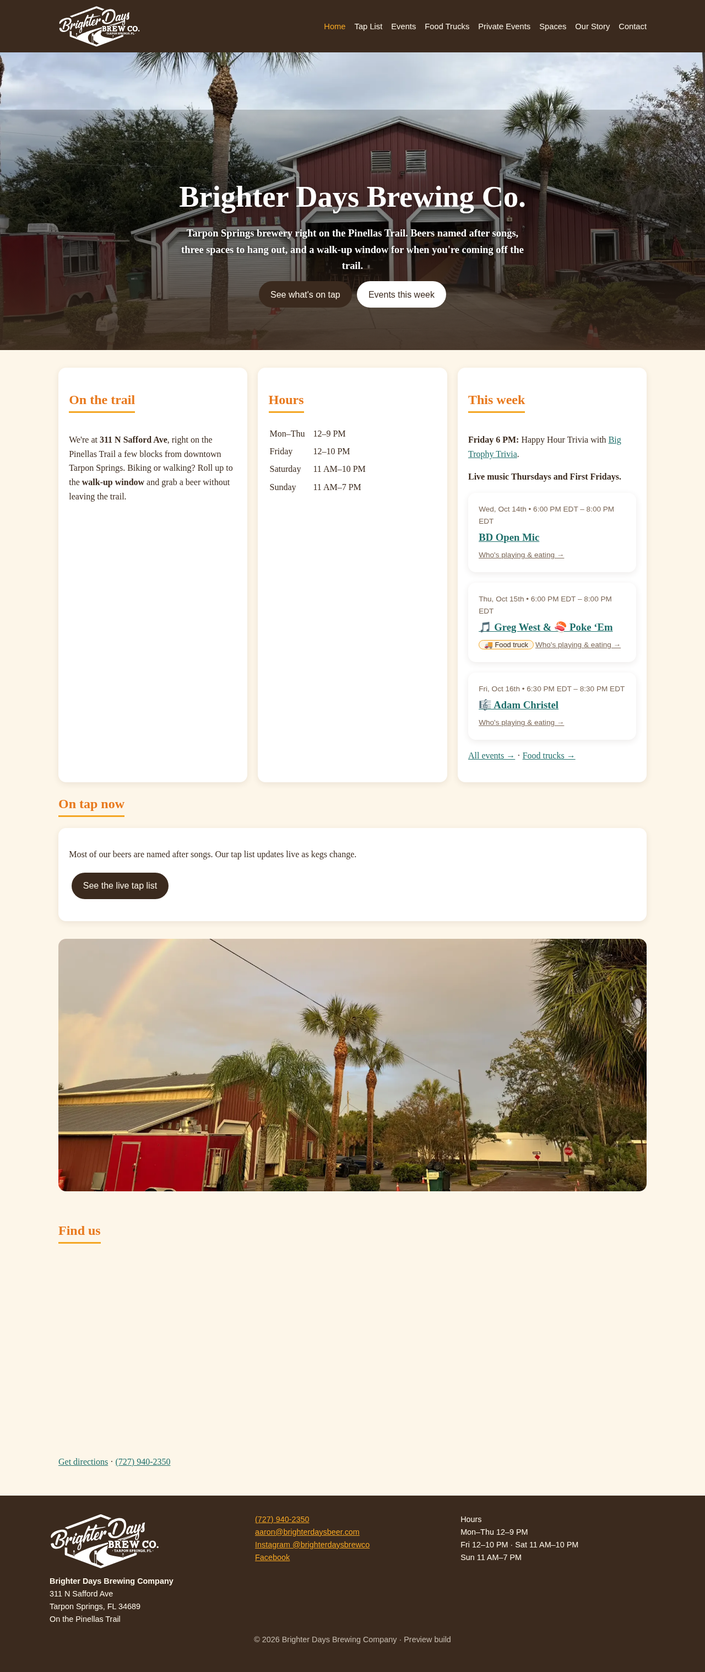
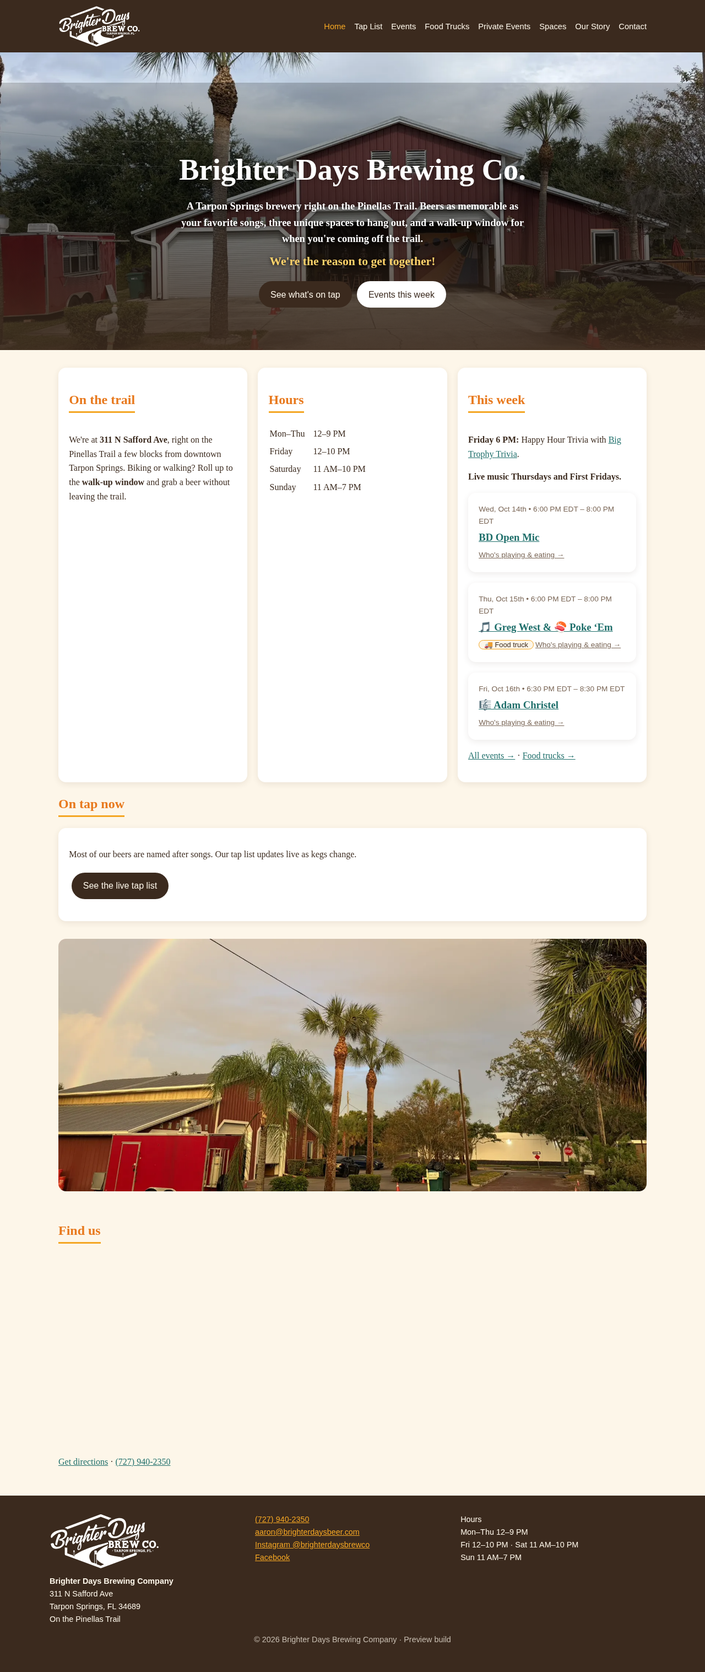
New home hero intro text and tagline

Changed region(s): [[0.0, 0.031, 1.0, 0.155]]

diff --git a/spaces.html b/spaces.html
@@ -1,11 +1,11 @@
 <!doctype html><html lang="en"><head><meta charset="utf-8"><meta name="viewport" content="width=device-width,initial-scale=1">
 <title>Spaces | Brighter Days Brewing Company, Tarpon Springs FL</title><meta name="description" content="Brighter Days Brewing Company: a Tarpon Springs brewery right on the Pinellas Trail, with a walk-up window and beers named after songs.">
 <link rel="icon" href="favicon.ico" sizes="any"><link rel="icon" type="image/png" sizes="32x32" href="assets/img/logo/favicon-32.png"><link rel="icon" type="image/png" sizes="16x16" href="assets/img/logo/favicon-16.png"><link rel="icon" type="image/png" sizes="192x192" href="assets/img/logo/favicon-192.png"><link rel="apple-touch-icon" href="assets/img/logo/apple-touch-icon.png">
-<link rel="stylesheet" href="assets/style.css?v=20261013c"></head><body>
+<link rel="stylesheet" href="assets/style.css?v=20261014a"></head><body>
 <header><div class="nav"><a class="logo" href="index.html" aria-label="Brighter Days Brew Co. home"><img class="logo-full" src="assets/img/logo/bd-logo-main-white.svg" alt="Brighter Days Brew Co., Tarpon Springs, FL" width="690" height="353"><img class="logo-mark" src="assets/img/logo/bd-starburst-white.png" alt="Brighter Days Brew Co." width="200" height="200"></a><button id="menuBtn" aria-label="Menu">☰</button><nav><ul><li><a href="index.html">Home</a></li><li><a href="taps.html">Tap List</a></li><li><a href="events.html">Events</a></li><li><a href="food-trucks.html">Food Trucks</a></li><li><a href="private-events.html">Private Events</a></li><li><a href="spaces.html" class=on>Spaces</a></li><li><a href="story.html">Our Story</a></li><li><a href="contact.html">Contact</a></li></ul></nav></div></header>
 <main><h2>Our spaces</h2><p>Three different spots to hang out, plus a walk-up window on the trail.</p><section class="gal-sec"><h3>Deck and outdoor</h3><p>Adirondack chairs and umbrellas out front.</p><div class="gal"><a class="gal-item" href="assets/img/spaces/bd-2570.jpg" data-full-webp="assets/img/spaces/bd-2570.webp" data-w="1600" data-h="1200"><picture><source srcset="assets/img/spaces/bd-2570-thumb.webp" type="image/webp"><img src="assets/img/spaces/bd-2570-thumb.jpg" alt="Deck with white event tents and a crowd on a sunny day" loading="lazy" decoding="async" width="600" height="450"></picture></a><a class="gal-item" href="assets/img/spaces/bd-2577.jpg" data-full-webp="assets/img/spaces/bd-2577.webp" data-w="1600" data-h="1200"><picture><source srcset="assets/img/spaces/bd-2577-thumb.webp" type="image/webp"><img src="assets/img/spaces/bd-2577-thumb.jpg" alt="Tent on the patio lit with string lights at dusk" loading="lazy" decoding="async" width="600" height="450"></picture></a><a class="gal-item" href="assets/img/spaces/bd-2579.jpg" data-full-webp="assets/img/spaces/bd-2579.webp" data-w="1600" data-h="1200"><picture><source srcset="assets/img/spaces/bd-2579-thumb.webp" type="image/webp"><img src="assets/img/spaces/bd-2579-thumb.jpg" alt="Evening on the deck under string lights and tents" loading="lazy" decoding="async" width="600" height="450"></picture></a><a class="gal-item" href="assets/img/spaces/bd-0875.jpg" data-full-webp="assets/img/spaces/bd-0875.webp" data-w="1600" data-h="1200"><picture><source srcset="assets/img/spaces/bd-0875-thumb.webp" type="image/webp"><img src="assets/img/spaces/bd-0875-thumb.jpg" alt="Outdoor area with red umbrellas and a food truck parked out back" loading="lazy" decoding="async" width="600" height="450"></picture></a></div></section><section class="gal-sec"><h3>Garage-door room</h3><p>Open-air room with picnic tables and TVs for the game.</p><div class="gal"><a class="gal-item" href="assets/img/spaces/bd-1412.jpg" data-full-webp="assets/img/spaces/bd-1412.webp" data-w="1600" data-h="1200"><picture><source srcset="assets/img/spaces/bd-1412-thumb.webp" type="image/webp"><img src="assets/img/spaces/bd-1412-thumb.jpg" alt="Garage-door room with tables, a barrel and hanging banners" loading="lazy" decoding="async" width="600" height="450"></picture></a><a class="gal-item" href="assets/img/spaces/bd-2583.jpg" data-full-webp="assets/img/spaces/bd-2583.webp" data-w="1600" data-h="1200"><picture><source srcset="assets/img/spaces/bd-2583-thumb.webp" type="image/webp"><img src="assets/img/spaces/bd-2583-thumb.jpg" alt="Garage room with barrels and tables set up" loading="lazy" decoding="async" width="600" height="450"></picture></a></div></section><section class="gal-sec"><h3>Indoor bar</h3><p>Order at the bar and see what's pouring.</p><div class="gal"><a class="gal-item" href="assets/img/spaces/bd-0842.jpg" data-full-webp="assets/img/spaces/bd-0842.webp" data-w="1600" data-h="1200"><picture><source srcset="assets/img/spaces/bd-0842-thumb.webp" type="image/webp"><img src="assets/img/spaces/bd-0842-thumb.jpg" alt="Indoor bar with wood counter and TV" loading="lazy" decoding="async" width="600" height="450"></picture></a><a class="gal-item" href="assets/img/spaces/bd-0876.jpg" data-full-webp="assets/img/spaces/bd-0876.webp" data-w="1200" data-h="1600"><picture><source srcset="assets/img/spaces/bd-0876-thumb.webp" type="image/webp"><img src="assets/img/spaces/bd-0876-thumb.jpg" alt="Inside the taproom bar room" loading="lazy" decoding="async" width="600" height="450"></picture></a></div></section><section class="gal-sec"><h3>Walk-up window</h3><p>Coming off the Pinellas Trail? Grab a beer at the window.</p></section><section class="gal-sec"><h3>Brewhouse</h3><div class="gal"><a class="gal-item" href="assets/img/spaces/bd-1732.jpg" data-full-webp="assets/img/spaces/bd-1732.webp" data-w="1600" data-h="1200"><picture><source srcset="assets/img/spaces/bd-1732-thumb.webp" type="image/webp"><img src="assets/img/spaces/bd-1732-thumb.jpg" alt="Brewhouse with stainless fermentation tanks" loading="lazy" decoding="async" width="600" height="450"></picture></a></div></section><section class="gal-sec"><h3>Night and events</h3><div class="gal"><a class="gal-item" href="assets/img/spaces/bd-1480.jpg" data-full-webp="assets/img/spaces/bd-1480.webp" data-w="1600" data-h="1200"><picture><source srcset="assets/img/spaces/bd-1480-thumb.webp" type="image/webp"><img src="assets/img/spaces/bd-1480-thumb.jpg" alt="Night crowd outside the garage doors with a red food trailer" loading="lazy" decoding="async" width="600" height="450"></picture></a><a class="gal-item" href="assets/img/spaces/bd-1481.jpg" data-full-webp="assets/img/spaces/bd-1481.webp" data-w="1200" data-h="1600"><picture><source srcset="assets/img/spaces/bd-1481-thumb.webp" type="image/webp"><img src="assets/img/spaces/bd-1481-thumb.jpg" alt="Fire pit glowing on a busy night" loading="lazy" decoding="async" width="600" height="450"></picture></a><a class="gal-item" href="assets/img/spaces/bd-2310.jpg" data-full-webp="assets/img/spaces/bd-2310.webp" data-w="1600" data-h="1200"><picture><source srcset="assets/img/spaces/bd-2310-thumb.webp" type="image/webp"><img src="assets/img/spaces/bd-2310-thumb.jpg" alt="Garage doors lit purple at night" loading="lazy" decoding="async" width="600" height="450"></picture></a><a class="gal-item" href="assets/img/spaces/bd-2564.jpg" data-full-webp="assets/img/spaces/bd-2564.webp" data-w="1600" data-h="1200"><picture><source srcset="assets/img/spaces/bd-2564-thumb.webp" type="image/webp"><img src="assets/img/spaces/bd-2564-thumb.jpg" alt="Packed taproom during an event" loading="lazy" decoding="async" width="600" height="450"></picture></a><a class="gal-item" href="assets/img/spaces/bd-2574.jpg" data-full-webp="assets/img/spaces/bd-2574.webp" data-w="1600" data-h="1200"><picture><source srcset="assets/img/spaces/bd-2574-thumb.webp" type="image/webp"><img src="assets/img/spaces/bd-2574-thumb.jpg" alt="Garage room set up for a private event" loading="lazy" decoding="async" width="600" height="450"></picture></a></div></section><section class="gal-sec"><h3>Food trucks</h3><div class="gal"><a class="gal-item" href="assets/img/spaces/bd-2343.jpg" data-full-webp="assets/img/spaces/bd-2343.webp" data-w="1600" data-h="1200"><picture><source srcset="assets/img/spaces/bd-2343-thumb.webp" type="image/webp"><img src="assets/img/spaces/bd-2343-thumb.jpg" alt="Bella Vita pizza trailer parked by the Brighter Days banner" loading="lazy" decoding="async" width="600" height="450"></picture></a><a class="gal-item" href="assets/img/spaces/bd-0797.jpg" data-full-webp="assets/img/spaces/bd-0797.webp" data-w="1600" data-h="1200"><picture><source srcset="assets/img/spaces/bd-0797-thumb.webp" type="image/webp"><img src="assets/img/spaces/bd-0797-thumb.jpg" alt="Red food trailer at the brewery" loading="lazy" decoding="async" width="600" height="450"></picture></a></div></section><section class="gal-sec"><h3>Fun stuff</h3><div class="gal"><a class="gal-item" href="assets/img/spaces/bd-1266.jpg" data-full-webp="assets/img/spaces/bd-1266.webp" data-w="1201" data-h="1600"><picture><source srcset="assets/img/spaces/bd-1266-thumb.webp" type="image/webp"><img src="assets/img/spaces/bd-1266-thumb.jpg" alt="Carved pumpkin with the BD logo glowing at night" loading="lazy" decoding="async" width="600" height="450"></picture></a><a class="gal-item" href="assets/img/spaces/bd-1037.jpg" data-full-webp="assets/img/spaces/bd-1037.webp" data-w="1600" data-h="1200"><picture><source srcset="assets/img/spaces/bd-1037-thumb.webp" type="image/webp"><img src="assets/img/spaces/bd-1037-thumb.jpg" alt="Framed beer art posters above a row of kegs" loading="lazy" decoding="async" width="600" height="450"></picture></a></div></section><section class="gal-sec"><h3>Beer and cans</h3><div class="gal"><a class="gal-item" href="assets/img/spaces/fb-011.jpg" data-full-webp="assets/img/spaces/fb-011.webp" data-w="543" data-h="543"><picture><source srcset="assets/img/spaces/fb-011-thumb.webp" type="image/webp"><img src="assets/img/spaces/fb-011-thumb.jpg" alt="Row of Brighter Days cans on a table" loading="lazy" decoding="async" width="600" height="450"></picture></a><a class="gal-item" href="assets/img/spaces/fb-083.jpg" data-full-webp="assets/img/spaces/fb-083.webp" data-w="497" data-h="497"><picture><source srcset="assets/img/spaces/fb-083-thumb.webp" type="image/webp"><img src="assets/img/spaces/fb-083-thumb.jpg" alt="Lineup of Brighter Days cans" loading="lazy" decoding="async" width="600" height="450"></picture></a><a class="gal-item" href="assets/img/spaces/fb-128.jpg" data-full-webp="assets/img/spaces/fb-128.webp" data-w="1079" data-h="1079"><picture><source srcset="assets/img/spaces/fb-128-thumb.webp" type="image/webp"><img src="assets/img/spaces/fb-128-thumb.jpg" alt="A pint of hazy beer on the bar" loading="lazy" decoding="async" width="600" height="450"></picture></a><a class="gal-item" href="assets/img/spaces/fb-074.jpg" data-full-webp="assets/img/spaces/fb-074.webp" data-w="1600" data-h="1600"><picture><source srcset="assets/img/spaces/fb-074-thumb.webp" type="image/webp"><img src="assets/img/spaces/fb-074-thumb.jpg" alt="A fresh pint with the crowd behind it" loading="lazy" decoding="async" width="600" height="450"></picture></a></div></section><p><a class="btn" href="private-events.html">Book a space</a></p></main><div id="lb" class="lb" hidden role="dialog" aria-modal="true" aria-label="Photo viewer"><button class="lb-x" aria-label="Close">×</button><button class="lb-p" aria-label="Previous photo">‹</button><figure><picture><source id="lb-src" type="image/webp"><img id="lb-img" alt=""></picture><figcaption id="lb-cap"></figcaption></figure><button class="lb-n" aria-label="Next photo">›</button></div>
 <footer><div class="grid"><div><img src="assets/img/logo/bd-logo-main-white.svg" alt="Brighter Days Brew Co., Tarpon Springs, FL" style="width:200px;height:auto;display:block;margin-bottom:.6rem"><strong>Brighter Days Brewing Company</strong><br>311 N Safford Ave<br>Tarpon Springs, FL 34689<br>On the Pinellas Trail</div><div><a href="tel:+17279402350">(727) 940-2350</a><br><a href="mailto:aaron@brighterdaysbeer.com">aaron@brighterdaysbeer.com</a><br><a href="https://instagram.com/brighterdaysbrewco">Instagram @brighterdaysbrewco</a><br><a href="https://www.facebook.com/282372538847975">Facebook</a></div><div>Hours<br>Mon–Thu 12–9 PM<br>Fri 12–10 PM · Sat 11 AM–10 PM<br>Sun 11 AM–7 PM</div></div><p style="text-align:center;opacity:.7">© 2026 Brighter Days Brewing Company · Preview build</p></footer>
-<script src="assets/site.js?v=20261013c"></script><script>
+<script src="assets/site.js?v=20261014a"></script><script>
 (()=>{const items=[...document.querySelectorAll('.gal-item')],lb=document.getElementById('lb'),img=document.getElementById('lb-img'),src=document.getElementById('lb-src'),cap=document.getElementById('lb-cap');let i=0,last;
 function show(n){i=(n+items.length)%items.length;const a=items[i],t=a.querySelector('img');src.srcset=a.dataset.fullWebp;img.src=a.href;img.alt=t.alt;cap.textContent=t.alt}
 items.forEach((a,n)=>a.addEventListener('click',e=>{e.preventDefault();last=a;show(n);lb.hidden=false;document.body.style.overflow='hidden';lb.querySelector('.lb-x').focus()}));

diff --git a/index.html b/index.html
@@ -1,9 +1,9 @@
 <!doctype html><html lang="en"><head><meta charset="utf-8"><meta name="viewport" content="width=device-width,initial-scale=1">
 <title>Home | Brighter Days Brewing Company, Tarpon Springs FL</title><meta name="description" content="Brighter Days Brewing Company: a Tarpon Springs brewery right on the Pinellas Trail, with a walk-up window and beers named after songs.">
 <link rel="icon" href="favicon.ico" sizes="any"><link rel="icon" type="image/png" sizes="32x32" href="assets/img/logo/favicon-32.png"><link rel="icon" type="image/png" sizes="16x16" href="assets/img/logo/favicon-16.png"><link rel="icon" type="image/png" sizes="192x192" href="assets/img/logo/favicon-192.png"><link rel="apple-touch-icon" href="assets/img/logo/apple-touch-icon.png">
-<link rel="stylesheet" href="assets/style.css?v=20261013c"></head><body>
+<link rel="stylesheet" href="assets/style.css?v=20261014a"></head><body>
 <header><div class="nav"><a class="logo" href="index.html" aria-label="Brighter Days Brew Co. home"><img class="logo-full" src="assets/img/logo/bd-logo-main-white.svg" alt="Brighter Days Brew Co., Tarpon Springs, FL" width="690" height="353"><img class="logo-mark" src="assets/img/logo/bd-starburst-white.png" alt="Brighter Days Brew Co." width="200" height="200"></a><button id="menuBtn" aria-label="Menu">☰</button><nav><ul><li><a href="index.html" class=on>Home</a></li><li><a href="taps.html">Tap List</a></li><li><a href="events.html">Events</a></li><li><a href="food-trucks.html">Food Trucks</a></li><li><a href="private-events.html">Private Events</a></li><li><a href="spaces.html">Spaces</a></li><li><a href="story.html">Our Story</a></li><li><a href="contact.html">Contact</a></li></ul></nav></div></header>
-<section class="hero photo"><picture><source srcset="assets/img/home-hero.webp" type="image/webp"><img class="hero-img" src="assets/img/home-hero.jpg" alt="The red Brighter Days taproom building with its garage doors open, framed by palm trees" width="1920" height="1080" fetchpriority="high"></picture><div class="hero-inner"><h1>Brighter Days Brewing Co.</h1><p>Tarpon Springs brewery right on the Pinellas Trail. Beers named after songs, three spaces to hang out, and a walk-up window for when you're coming off the trail.</p>
+<section class="hero photo"><picture><source srcset="assets/img/home-hero.webp" type="image/webp"><img class="hero-img" src="assets/img/home-hero.jpg" alt="The red Brighter Days taproom building with its garage doors open, framed by palm trees" width="1920" height="1080" fetchpriority="high"></picture><div class="hero-inner"><h1>Brighter Days Brewing Co.</h1><p>A Tarpon Springs brewery right on the Pinellas Trail. Beers as memorable as your favorite songs, three unique spaces to hang out, and a walk-up window for when you're coming off the trail.</p><p class="tagline"><strong>We're the reason to get together!</strong></p>
 <a class="btn" href="taps.html">See what's on tap</a><a class="btn alt" href="events.html">Events this week</a></div></section>
 <main><div class="grid">
 <div class="card"><h2>On the trail</h2><p>We're at <strong>311 N Safford Ave</strong>, right on the Pinellas Trail a few blocks from downtown Tarpon Springs. Biking or walking? Roll up to the <strong>walk-up window</strong> and grab a beer without leaving the trail.</p></div>
@@ -13,4 +13,4 @@
 <h2>On tap now</h2><div class="card"><p>Most of our beers are named after songs. Our tap list updates live as kegs change.</p><p><a class="btn" href="taps.html">See the live tap list</a></p></div>
 <figure class="band"><picture><source srcset="assets/img/home-rainbow.webp" type="image/webp"><img src="assets/img/home-rainbow.jpg" alt="A rainbow arching over the brewery and palm trees" loading="lazy" width="1600" height="685"></picture></figure><h2>Find us</h2><iframe class="map" loading="lazy" title="Map to 311 N Safford Ave, Tarpon Springs" src="https://maps.google.com/maps?q=311%20N%20Safford%20Ave%2C%20Tarpon%20Springs%2C%20FL%2034689&z=16&output=embed"></iframe><p><a href="https://www.google.com/maps/dir/?api=1&destination=311+N+Safford+Ave+Tarpon+Springs+FL+34689">Get directions</a> · <a href="tel:+17279402350">(727) 940-2350</a></p></main>
 <footer><div class="grid"><div><img src="assets/img/logo/bd-logo-main-white.svg" alt="Brighter Days Brew Co., Tarpon Springs, FL" style="width:200px;height:auto;display:block;margin-bottom:.6rem"><strong>Brighter Days Brewing Company</strong><br>311 N Safford Ave<br>Tarpon Springs, FL 34689<br>On the Pinellas Trail</div><div><a href="tel:+17279402350">(727) 940-2350</a><br><a href="mailto:aaron@brighterdaysbeer.com">aaron@brighterdaysbeer.com</a><br><a href="https://instagram.com/brighterdaysbrewco">Instagram @brighterdaysbrewco</a><br><a href="https://www.facebook.com/282372538847975">Facebook</a></div><div>Hours<br>Mon–Thu 12–9 PM<br>Fri 12–10 PM · Sat 11 AM–10 PM<br>Sun 11 AM–7 PM</div></div><p style="text-align:center;opacity:.7">© 2026 Brighter Days Brewing Company · Preview build</p></footer>
-<script src="assets/site.js?v=20261013c"></script><script src="data/events.js"></script><script>renderEvents(document.getElementById("homeEvents"),3)</script></body></html>
+<script src="assets/site.js?v=20261014a"></script><script src="data/events.js"></script><script>renderEvents(document.getElementById("homeEvents"),3)</script></body></html>

diff --git a/story.html b/story.html
@@ -1,8 +1,8 @@
 <!doctype html><html lang="en"><head><meta charset="utf-8"><meta name="viewport" content="width=device-width,initial-scale=1">
 <title>Our Story | Brighter Days Brewing Company, Tarpon Springs FL</title><meta name="description" content="Brighter Days Brewing Company: a Tarpon Springs brewery right on the Pinellas Trail, with a walk-up window and beers named after songs.">
 <link rel="icon" href="favicon.ico" sizes="any"><link rel="icon" type="image/png" sizes="32x32" href="assets/img/logo/favicon-32.png"><link rel="icon" type="image/png" sizes="16x16" href="assets/img/logo/favicon-16.png"><link rel="icon" type="image/png" sizes="192x192" href="assets/img/logo/favicon-192.png"><link rel="apple-touch-icon" href="assets/img/logo/apple-touch-icon.png">
-<link rel="stylesheet" href="assets/style.css?v=20261013c"></head><body>
+<link rel="stylesheet" href="assets/style.css?v=20261014a"></head><body>
 <header><div class="nav"><a class="logo" href="index.html" aria-label="Brighter Days Brew Co. home"><img class="logo-full" src="assets/img/logo/bd-logo-main-white.svg" alt="Brighter Days Brew Co., Tarpon Springs, FL" width="690" height="353"><img class="logo-mark" src="assets/img/logo/bd-starburst-white.png" alt="Brighter Days Brew Co." width="200" height="200"></a><button id="menuBtn" aria-label="Menu">☰</button><nav><ul><li><a href="index.html">Home</a></li><li><a href="taps.html">Tap List</a></li><li><a href="events.html">Events</a></li><li><a href="food-trucks.html">Food Trucks</a></li><li><a href="private-events.html">Private Events</a></li><li><a href="spaces.html">Spaces</a></li><li><a href="story.html" class=on>Our Story</a></li><li><a href="contact.html">Contact</a></li></ul></nav></div></header>
 <main><h2>Our story</h2><div class="grid"><div class="card"><p>We opened in 2020 with one idea: a big patio, cold beer, and live music most nights. Six years later, that's still the whole plan.</p><p>Music is the heartbeat here, and every beer we brew is named after a song. Thursdays and First Fridays bring bands to the taproom, from funk and soul to jam-band improv and laid-back country.</p><p>Three rooms, one easy vibe: the indoor bar, the open-air garage with the game on, and a big deck right off the Pinellas Trail, with Adirondack chairs and umbrellas. Our walk-up window means bikers and trail walkers are as much a part of the crowd as the regulars.</p><p>We're family-friendly and dog-friendly. Since 2022, every March we've hosted the 5K for Autism, which funds the Heart 4 Kids scholarship.</p></div><picture class="story-img"><source srcset="assets/img/spaces/bd-1732.webp" type="image/webp"><img src="assets/img/spaces/bd-1732.jpg" alt="Brighter Days brewhouse with stainless fermentation tanks" loading="lazy" width="1600" height="1200"></picture></div></main>
 <footer><div class="grid"><div><img src="assets/img/logo/bd-logo-main-white.svg" alt="Brighter Days Brew Co., Tarpon Springs, FL" style="width:200px;height:auto;display:block;margin-bottom:.6rem"><strong>Brighter Days Brewing Company</strong><br>311 N Safford Ave<br>Tarpon Springs, FL 34689<br>On the Pinellas Trail</div><div><a href="tel:+17279402350">(727) 940-2350</a><br><a href="mailto:aaron@brighterdaysbeer.com">aaron@brighterdaysbeer.com</a><br><a href="https://instagram.com/brighterdaysbrewco">Instagram @brighterdaysbrewco</a><br><a href="https://www.facebook.com/282372538847975">Facebook</a></div><div>Hours<br>Mon–Thu 12–9 PM<br>Fri 12–10 PM · Sat 11 AM–10 PM<br>Sun 11 AM–7 PM</div></div><p style="text-align:center;opacity:.7">© 2026 Brighter Days Brewing Company · Preview build</p></footer>
-<script src="assets/site.js?v=20261013c"></script></body></html>
+<script src="assets/site.js?v=20261014a"></script></body></html>

diff --git a/contact.html b/contact.html
@@ -1,8 +1,8 @@
 <!doctype html><html lang="en"><head><meta charset="utf-8"><meta name="viewport" content="width=device-width,initial-scale=1">
 <title>Contact | Brighter Days Brewing Company, Tarpon Springs FL</title><meta name="description" content="Brighter Days Brewing Company: a Tarpon Springs brewery right on the Pinellas Trail, with a walk-up window and beers named after songs.">
 <link rel="icon" href="favicon.ico" sizes="any"><link rel="icon" type="image/png" sizes="32x32" href="assets/img/logo/favicon-32.png"><link rel="icon" type="image/png" sizes="16x16" href="assets/img/logo/favicon-16.png"><link rel="icon" type="image/png" sizes="192x192" href="assets/img/logo/favicon-192.png"><link rel="apple-touch-icon" href="assets/img/logo/apple-touch-icon.png">
-<link rel="stylesheet" href="assets/style.css?v=20261013c"></head><body>
+<link rel="stylesheet" href="assets/style.css?v=20261014a"></head><body>
 <header><div class="nav"><a class="logo" href="index.html" aria-label="Brighter Days Brew Co. home"><img class="logo-full" src="assets/img/logo/bd-logo-main-white.svg" alt="Brighter Days Brew Co., Tarpon Springs, FL" width="690" height="353"><img class="logo-mark" src="assets/img/logo/bd-starburst-white.png" alt="Brighter Days Brew Co." width="200" height="200"></a><button id="menuBtn" aria-label="Menu">☰</button><nav><ul><li><a href="index.html">Home</a></li><li><a href="taps.html">Tap List</a></li><li><a href="events.html">Events</a></li><li><a href="food-trucks.html">Food Trucks</a></li><li><a href="private-events.html">Private Events</a></li><li><a href="spaces.html">Spaces</a></li><li><a href="story.html">Our Story</a></li><li><a href="contact.html" class=on>Contact</a></li></ul></nav></div></header>
 <main><h2>Contact & visit</h2><div class="grid"><div class="card"><h3>Brighter Days Brewing Company</h3><p>311 N Safford Ave<br>Tarpon Springs, FL 34689</p><p><a href="tel:+17279402350">(727) 940-2350</a></p><p><a href="https://instagram.com/brighterdaysbrewco">Instagram @brighterdaysbrewco</a><br><a href="https://www.facebook.com/282372538847975">Facebook</a></p><p>Email: <a href="mailto:aaron@brighterdaysbeer.com">aaron@brighterdaysbeer.com</a></p></div><div class="card"><h3>Hours</h3><table class="hours"><tr><td>Mon–Thu</td><td>12–9 PM</td></tr><tr><td>Friday</td><td>12–10 PM</td></tr><tr><td>Saturday</td><td>11 AM–10 PM</td></tr><tr><td>Sunday</td><td>11 AM–7 PM</td></tr></table></div></div><h3>Map</h3><iframe class="map" loading="lazy" title="Map to 311 N Safford Ave, Tarpon Springs" src="https://maps.google.com/maps?q=311%20N%20Safford%20Ave%2C%20Tarpon%20Springs%2C%20FL%2034689&z=16&output=embed"></iframe></main>
 <footer><div class="grid"><div><img src="assets/img/logo/bd-logo-main-white.svg" alt="Brighter Days Brew Co., Tarpon Springs, FL" style="width:200px;height:auto;display:block;margin-bottom:.6rem"><strong>Brighter Days Brewing Company</strong><br>311 N Safford Ave<br>Tarpon Springs, FL 34689<br>On the Pinellas Trail</div><div><a href="tel:+17279402350">(727) 940-2350</a><br><a href="mailto:aaron@brighterdaysbeer.com">aaron@brighterdaysbeer.com</a><br><a href="https://instagram.com/brighterdaysbrewco">Instagram @brighterdaysbrewco</a><br><a href="https://www.facebook.com/282372538847975">Facebook</a></div><div>Hours<br>Mon–Thu 12–9 PM<br>Fri 12–10 PM · Sat 11 AM–10 PM<br>Sun 11 AM–7 PM</div></div><p style="text-align:center;opacity:.7">© 2026 Brighter Days Brewing Company · Preview build</p></footer>
-<script src="assets/site.js?v=20261013c"></script></body></html>
+<script src="assets/site.js?v=20261014a"></script></body></html>

diff --git a/private-events.html b/private-events.html
@@ -1,7 +1,7 @@
 <!doctype html><html lang="en"><head><meta charset="utf-8"><meta name="viewport" content="width=device-width,initial-scale=1">
 <title>Private Events | Brighter Days Brewing Company, Tarpon Springs FL</title><meta name="description" content="Brighter Days Brewing Company: a Tarpon Springs brewery right on the Pinellas Trail, with a walk-up window and beers named after songs.">
 <link rel="icon" href="favicon.ico" sizes="any"><link rel="icon" type="image/png" sizes="32x32" href="assets/img/logo/favicon-32.png"><link rel="icon" type="image/png" sizes="16x16" href="assets/img/logo/favicon-16.png"><link rel="icon" type="image/png" sizes="192x192" href="assets/img/logo/favicon-192.png"><link rel="apple-touch-icon" href="assets/img/logo/apple-touch-icon.png">
-<link rel="stylesheet" href="assets/style.css?v=20261013c"></head><body>
+<link rel="stylesheet" href="assets/style.css?v=20261014a"></head><body>
 <header><div class="nav"><a class="logo" href="index.html" aria-label="Brighter Days Brew Co. home"><img class="logo-full" src="assets/img/logo/bd-logo-main-white.svg" alt="Brighter Days Brew Co., Tarpon Springs, FL" width="690" height="353"><img class="logo-mark" src="assets/img/logo/bd-starburst-white.png" alt="Brighter Days Brew Co." width="200" height="200"></a><button id="menuBtn" aria-label="Menu">☰</button><nav><ul><li><a href="index.html">Home</a></li><li><a href="taps.html">Tap List</a></li><li><a href="events.html">Events</a></li><li><a href="food-trucks.html">Food Trucks</a></li><li><a href="private-events.html" class=on>Private Events</a></li><li><a href="spaces.html">Spaces</a></li><li><a href="story.html">Our Story</a></li><li><a href="contact.html">Contact</a></li></ul></nav></div></header>
 <main><h2>Private events</h2><p>Birthdays, team outings, rehearsal dinners, club meetups: tell us what you have in mind and we'll get back to you about space and availability.</p>
 <div id="pe-wrap" class="card pe-card">
@@ -26,7 +26,7 @@
 </form></div>
 <p class="small">Prefer email? <a href="mailto:aaron@brighterdaysbeer.com">aaron@brighterdaysbeer.com</a> · or call <a href="tel:+17279402350">(727) 940-2350</a></p></main>
 <footer><div class="grid"><div><img src="assets/img/logo/bd-logo-main-white.svg" alt="Brighter Days Brew Co., Tarpon Springs, FL" style="width:200px;height:auto;display:block;margin-bottom:.6rem"><strong>Brighter Days Brewing Company</strong><br>311 N Safford Ave<br>Tarpon Springs, FL 34689<br>On the Pinellas Trail</div><div><a href="tel:+17279402350">(727) 940-2350</a><br><a href="mailto:aaron@brighterdaysbeer.com">aaron@brighterdaysbeer.com</a><br><a href="https://instagram.com/brighterdaysbrewco">Instagram @brighterdaysbrewco</a><br><a href="https://www.facebook.com/282372538847975">Facebook</a></div><div>Hours<br>Mon–Thu 12–9 PM<br>Fri 12–10 PM · Sat 11 AM–10 PM<br>Sun 11 AM–7 PM</div></div><p style="text-align:center;opacity:.7">© 2026 Brighter Days Brewing Company · Preview build</p></footer>
-<script src="assets/site.js?v=20261013c"></script><script>
+<script src="assets/site.js?v=20261014a"></script><script>
 (function(){const f=document.getElementById('pe'),st=document.getElementById('pe-status'),btn=f.querySelector('button[type=submit]');
 f.addEventListener('submit',async e=>{e.preventDefault();if(!f.reportValidity())return;btn.disabled=true;btn.textContent='Sending...';st.innerHTML='';
  try{const r=await fetch(f.action,{method:'POST',body:new FormData(f),headers:{Accept:'application/json'}});if(!r.ok)throw 0;

diff --git a/taps.html b/taps.html
@@ -1,11 +1,11 @@
 <!doctype html><html lang="en"><head><meta charset="utf-8"><meta name="viewport" content="width=device-width,initial-scale=1">
 <title>Tap List | Brighter Days Brewing Company, Tarpon Springs FL</title><meta name="description" content="Brighter Days Brewing Company: a Tarpon Springs brewery right on the Pinellas Trail, with a walk-up window and beers named after songs.">
 <link rel="icon" href="favicon.ico" sizes="any"><link rel="icon" type="image/png" sizes="32x32" href="assets/img/logo/favicon-32.png"><link rel="icon" type="image/png" sizes="16x16" href="assets/img/logo/favicon-16.png"><link rel="icon" type="image/png" sizes="192x192" href="assets/img/logo/favicon-192.png"><link rel="apple-touch-icon" href="assets/img/logo/apple-touch-icon.png">
-<link rel="stylesheet" href="assets/style.css?v=20261013c"></head><body>
+<link rel="stylesheet" href="assets/style.css?v=20261014a"></head><body>
 <header><div class="nav"><a class="logo" href="index.html" aria-label="Brighter Days Brew Co. home"><img class="logo-full" src="assets/img/logo/bd-logo-main-white.svg" alt="Brighter Days Brew Co., Tarpon Springs, FL" width="690" height="353"><img class="logo-mark" src="assets/img/logo/bd-starburst-white.png" alt="Brighter Days Brew Co." width="200" height="200"></a><button id="menuBtn" aria-label="Menu">☰</button><nav><ul><li><a href="index.html">Home</a></li><li><a href="taps.html" class=on>Tap List</a></li><li><a href="events.html">Events</a></li><li><a href="food-trucks.html">Food Trucks</a></li><li><a href="private-events.html">Private Events</a></li><li><a href="spaces.html">Spaces</a></li><li><a href="story.html">Our Story</a></li><li><a href="contact.html">Contact</a></li></ul></nav></div></header>
 <main><h2>Tap list</h2><p>Most of our beers are named after songs. Here's what's pouring right now.</p><div id="menu-container"></div>
 <script type="text/javascript">
 !function(e,t){var n=document.createElement("script"),a=document.getElementsByTagName("script")[0];n.async=1,a.parentNode.insertBefore(n,a),n.onload=n.onreadystatechange=function(e,a){(a||!n.readyState||/loaded|complete/.test(n.readyState))&&(n.onload=n.onreadystatechange=null,a||t&&t())},n.src=e}("https://embed-menu-preloader.untappdapi.com/embed-menu-preloader.min.js",(function(){PreloadEmbedMenu("menu-container",48872,174590)}));
 </script><noscript><p>Turn on JavaScript to see the tap list, or call us at <a href="tel:+17279402350">(727) 940-2350</a>.</p></noscript></main>
 <footer><div class="grid"><div><img src="assets/img/logo/bd-logo-main-white.svg" alt="Brighter Days Brew Co., Tarpon Springs, FL" style="width:200px;height:auto;display:block;margin-bottom:.6rem"><strong>Brighter Days Brewing Company</strong><br>311 N Safford Ave<br>Tarpon Springs, FL 34689<br>On the Pinellas Trail</div><div><a href="tel:+17279402350">(727) 940-2350</a><br><a href="mailto:aaron@brighterdaysbeer.com">aaron@brighterdaysbeer.com</a><br><a href="https://instagram.com/brighterdaysbrewco">Instagram @brighterdaysbrewco</a><br><a href="https://www.facebook.com/282372538847975">Facebook</a></div><div>Hours<br>Mon–Thu 12–9 PM<br>Fri 12–10 PM · Sat 11 AM–10 PM<br>Sun 11 AM–7 PM</div></div><p style="text-align:center;opacity:.7">© 2026 Brighter Days Brewing Company · Preview build</p></footer>
-<script src="assets/site.js?v=20261013c"></script></body></html>
+<script src="assets/site.js?v=20261014a"></script></body></html>

diff --git a/food-trucks.html b/food-trucks.html
@@ -1,12 +1,12 @@
 <!doctype html><html lang="en"><head><meta charset="utf-8"><meta name="viewport" content="width=device-width,initial-scale=1">
 <title>Food Trucks | Brighter Days Brewing Company, Tarpon Springs FL</title><meta name="description" content="Brighter Days Brewing Company: a Tarpon Springs brewery right on the Pinellas Trail, with a walk-up window and beers named after songs.">
 <link rel="icon" href="favicon.ico" sizes="any"><link rel="icon" type="image/png" sizes="32x32" href="assets/img/logo/favicon-32.png"><link rel="icon" type="image/png" sizes="16x16" href="assets/img/logo/favicon-16.png"><link rel="icon" type="image/png" sizes="192x192" href="assets/img/logo/favicon-192.png"><link rel="apple-touch-icon" href="assets/img/logo/apple-touch-icon.png">
-<link rel="stylesheet" href="assets/style.css?v=20261013c"></head><body>
+<link rel="stylesheet" href="assets/style.css?v=20261014a"></head><body>
 <header><div class="nav"><a class="logo" href="index.html" aria-label="Brighter Days Brew Co. home"><img class="logo-full" src="assets/img/logo/bd-logo-main-white.svg" alt="Brighter Days Brew Co., Tarpon Springs, FL" width="690" height="353"><img class="logo-mark" src="assets/img/logo/bd-starburst-white.png" alt="Brighter Days Brew Co." width="200" height="200"></a><button id="menuBtn" aria-label="Menu">☰</button><nav><ul><li><a href="index.html">Home</a></li><li><a href="taps.html">Tap List</a></li><li><a href="events.html">Events</a></li><li><a href="food-trucks.html" class=on>Food Trucks</a></li><li><a href="private-events.html">Private Events</a></li><li><a href="spaces.html">Spaces</a></li><li><a href="story.html">Our Story</a></li><li><a href="contact.html">Contact</a></li></ul></nav></div></header>
 <main><h2>Food trucks</h2><p>Food trucks and pop-ups posted for this week and next.</p><p class="flag" style="background:#fff;border-left-color:var(--sun)">Food schedules change. Check here or Instagram <a href="https://instagram.com/brighterdaysbrewco">@brighterdaysbrewco</a> for the latest.</p><div id="weeks"></div>
 </main>
 <footer><div class="grid"><div><img src="assets/img/logo/bd-logo-main-white.svg" alt="Brighter Days Brew Co., Tarpon Springs, FL" style="width:200px;height:auto;display:block;margin-bottom:.6rem"><strong>Brighter Days Brewing Company</strong><br>311 N Safford Ave<br>Tarpon Springs, FL 34689<br>On the Pinellas Trail</div><div><a href="tel:+17279402350">(727) 940-2350</a><br><a href="mailto:aaron@brighterdaysbeer.com">aaron@brighterdaysbeer.com</a><br><a href="https://instagram.com/brighterdaysbrewco">Instagram @brighterdaysbrewco</a><br><a href="https://www.facebook.com/282372538847975">Facebook</a></div><div>Hours<br>Mon–Thu 12–9 PM<br>Fri 12–10 PM · Sat 11 AM–10 PM<br>Sun 11 AM–7 PM</div></div><p style="text-align:center;opacity:.7">© 2026 Brighter Days Brewing Company · Preview build</p></footer>
-<script src="assets/site.js?v=20261013c"></script><script src="data/events.js"></script><script>
+<script src="assets/site.js?v=20261014a"></script><script src="data/events.js"></script><script>
 const el=document.getElementById('weeks');const ev=upcoming().filter(e=>e.trucks.length);
 const mon=new Date();mon.setHours(0,0,0,0);mon.setDate(mon.getDate()-((mon.getDay()+6)%7));
 let h='';for(let w=0;w<2;w++){h+=`<h3>${w?'Next week':'This week'}</h3><div class="week">`;for(let i=0;i<7;i++){const d=new Date(mon);d.setDate(mon.getDate()+w*7+i);

diff --git a/event.html b/event.html
@@ -1,11 +1,11 @@
 <!doctype html><html lang="en"><head><meta charset="utf-8"><meta name="viewport" content="width=device-width,initial-scale=1">
 <title>Event | Brighter Days Brewing Company, Tarpon Springs FL</title><meta name="description" content="Brighter Days Brewing Company: a Tarpon Springs brewery right on the Pinellas Trail, with a walk-up window and beers named after songs.">
 <link rel="icon" href="favicon.ico" sizes="any"><link rel="icon" type="image/png" sizes="32x32" href="assets/img/logo/favicon-32.png"><link rel="icon" type="image/png" sizes="16x16" href="assets/img/logo/favicon-16.png"><link rel="icon" type="image/png" sizes="192x192" href="assets/img/logo/favicon-192.png"><link rel="apple-touch-icon" href="assets/img/logo/apple-touch-icon.png">
-<link rel="stylesheet" href="assets/style.css?v=20261013c"></head><body>
+<link rel="stylesheet" href="assets/style.css?v=20261014a"></head><body>
 <header><div class="nav"><a class="logo" href="index.html" aria-label="Brighter Days Brew Co. home"><img class="logo-full" src="assets/img/logo/bd-logo-main-white.svg" alt="Brighter Days Brew Co., Tarpon Springs, FL" width="690" height="353"><img class="logo-mark" src="assets/img/logo/bd-starburst-white.png" alt="Brighter Days Brew Co." width="200" height="200"></a><button id="menuBtn" aria-label="Menu">☰</button><nav><ul><li><a href="index.html">Home</a></li><li><a href="taps.html">Tap List</a></li><li><a href="events.html">Events</a></li><li><a href="food-trucks.html">Food Trucks</a></li><li><a href="private-events.html">Private Events</a></li><li><a href="spaces.html">Spaces</a></li><li><a href="story.html">Our Story</a></li><li><a href="contact.html">Contact</a></li></ul></nav></div></header>
 <main><p class="small"><a href="events.html">← All events</a></p><div id="ev-detail"><p>Loading event…</p></div></main>
 <footer><div class="grid"><div><img src="assets/img/logo/bd-logo-main-white.svg" alt="Brighter Days Brew Co., Tarpon Springs, FL" style="width:200px;height:auto;display:block;margin-bottom:.6rem"><strong>Brighter Days Brewing Company</strong><br>311 N Safford Ave<br>Tarpon Springs, FL 34689<br>On the Pinellas Trail</div><div><a href="tel:+17279402350">(727) 940-2350</a><br><a href="mailto:aaron@brighterdaysbeer.com">aaron@brighterdaysbeer.com</a><br><a href="https://instagram.com/brighterdaysbrewco">Instagram @brighterdaysbrewco</a><br><a href="https://www.facebook.com/282372538847975">Facebook</a></div><div>Hours<br>Mon–Thu 12–9 PM<br>Fri 12–10 PM · Sat 11 AM–10 PM<br>Sun 11 AM–7 PM</div></div><p style="text-align:center;opacity:.7">© 2026 Brighter Days Brewing Company · Preview build</p></footer>
-<script src="assets/site.js?v=20261013c"></script><script src="data/events.js"></script><script>
+<script src="assets/site.js?v=20261014a"></script><script src="data/events.js"></script><script>
 (async()=>{const el=document.getElementById('ev-detail');const id=new URLSearchParams(location.search).get('id');const e=(window.BD_EVENTS?.events||[]).find(x=>x.id===id);
  if(!e){el.innerHTML='<h2>Event not found</h2><p>It may have passed. <a href="events.html">See upcoming events</a>.</p>';return}
  document.title=e.title.replace(/[^\p{L}\p{N}\s'&-]/gu,'').trim()+' | Brighter Days Brewing Company';

diff --git a/events.html b/events.html
@@ -1,8 +1,8 @@
 <!doctype html><html lang="en"><head><meta charset="utf-8"><meta name="viewport" content="width=device-width,initial-scale=1">
 <title>Events | Brighter Days Brewing Company, Tarpon Springs FL</title><meta name="description" content="Brighter Days Brewing Company: a Tarpon Springs brewery right on the Pinellas Trail, with a walk-up window and beers named after songs.">
 <link rel="icon" href="favicon.ico" sizes="any"><link rel="icon" type="image/png" sizes="32x32" href="assets/img/logo/favicon-32.png"><link rel="icon" type="image/png" sizes="16x16" href="assets/img/logo/favicon-16.png"><link rel="icon" type="image/png" sizes="192x192" href="assets/img/logo/favicon-192.png"><link rel="apple-touch-icon" href="assets/img/logo/apple-touch-icon.png">
-<link rel="stylesheet" href="assets/style.css?v=20261013c"></head><body>
+<link rel="stylesheet" href="assets/style.css?v=20261014a"></head><body>
 <header><div class="nav"><a class="logo" href="index.html" aria-label="Brighter Days Brew Co. home"><img class="logo-full" src="assets/img/logo/bd-logo-main-white.svg" alt="Brighter Days Brew Co., Tarpon Springs, FL" width="690" height="353"><img class="logo-mark" src="assets/img/logo/bd-starburst-white.png" alt="Brighter Days Brew Co." width="200" height="200"></a><button id="menuBtn" aria-label="Menu">☰</button><nav><ul><li><a href="index.html">Home</a></li><li><a href="taps.html">Tap List</a></li><li><a href="events.html" class=on>Events</a></li><li><a href="food-trucks.html">Food Trucks</a></li><li><a href="private-events.html">Private Events</a></li><li><a href="spaces.html">Spaces</a></li><li><a href="story.html">Our Story</a></li><li><a href="contact.html">Contact</a></li></ul></nav></div></header>
 <main><h2>Events</h2><div class="card" style="margin-bottom:1rem"><strong>Every Friday, 6 PM:</strong> Happy Hour Trivia hosted by <a href="https://bigtrophytrivia.com/brighter-days">Big Trophy Trivia</a>.</div><div class="card" style="margin-bottom:1rem"><strong>Live music Thursdays and First Fridays.</strong></div><h3>Coming up</h3><div id="ev"></div></main>
 <footer><div class="grid"><div><img src="assets/img/logo/bd-logo-main-white.svg" alt="Brighter Days Brew Co., Tarpon Springs, FL" style="width:200px;height:auto;display:block;margin-bottom:.6rem"><strong>Brighter Days Brewing Company</strong><br>311 N Safford Ave<br>Tarpon Springs, FL 34689<br>On the Pinellas Trail</div><div><a href="tel:+17279402350">(727) 940-2350</a><br><a href="mailto:aaron@brighterdaysbeer.com">aaron@brighterdaysbeer.com</a><br><a href="https://instagram.com/brighterdaysbrewco">Instagram @brighterdaysbrewco</a><br><a href="https://www.facebook.com/282372538847975">Facebook</a></div><div>Hours<br>Mon–Thu 12–9 PM<br>Fri 12–10 PM · Sat 11 AM–10 PM<br>Sun 11 AM–7 PM</div></div><p style="text-align:center;opacity:.7">© 2026 Brighter Days Brewing Company · Preview build</p></footer>
-<script src="assets/site.js?v=20261013c"></script><script src="data/events.js"></script><script>renderEvents(document.getElementById("ev"))</script></body></html>
+<script src="assets/site.js?v=20261014a"></script><script src="data/events.js"></script><script>renderEvents(document.getElementById("ev"))</script></body></html>

diff --git a/assets/style.css b/assets/style.css
@@ -75,3 +75,4 @@ footer img{width:200px;height:auto}
 .lb-x{top:12px;right:12px}.lb-p{left:10px;top:50%;transform:translateY(-50%)}.lb-n{right:10px;top:50%;transform:translateY(-50%)}
 .story-img img{width:100%;height:100%;object-fit:cover;border-radius:12px;aspect-ratio:4/3}
 .band{margin:2rem 0;border-radius:14px;overflow:hidden;aspect-ratio:21/9}.band img{display:block;width:100%;height:100%;object-fit:cover}
+.hero .tagline{font-size:1.35rem;margin:.4rem auto .9rem}.hero .tagline strong{color:#ffd36b}
